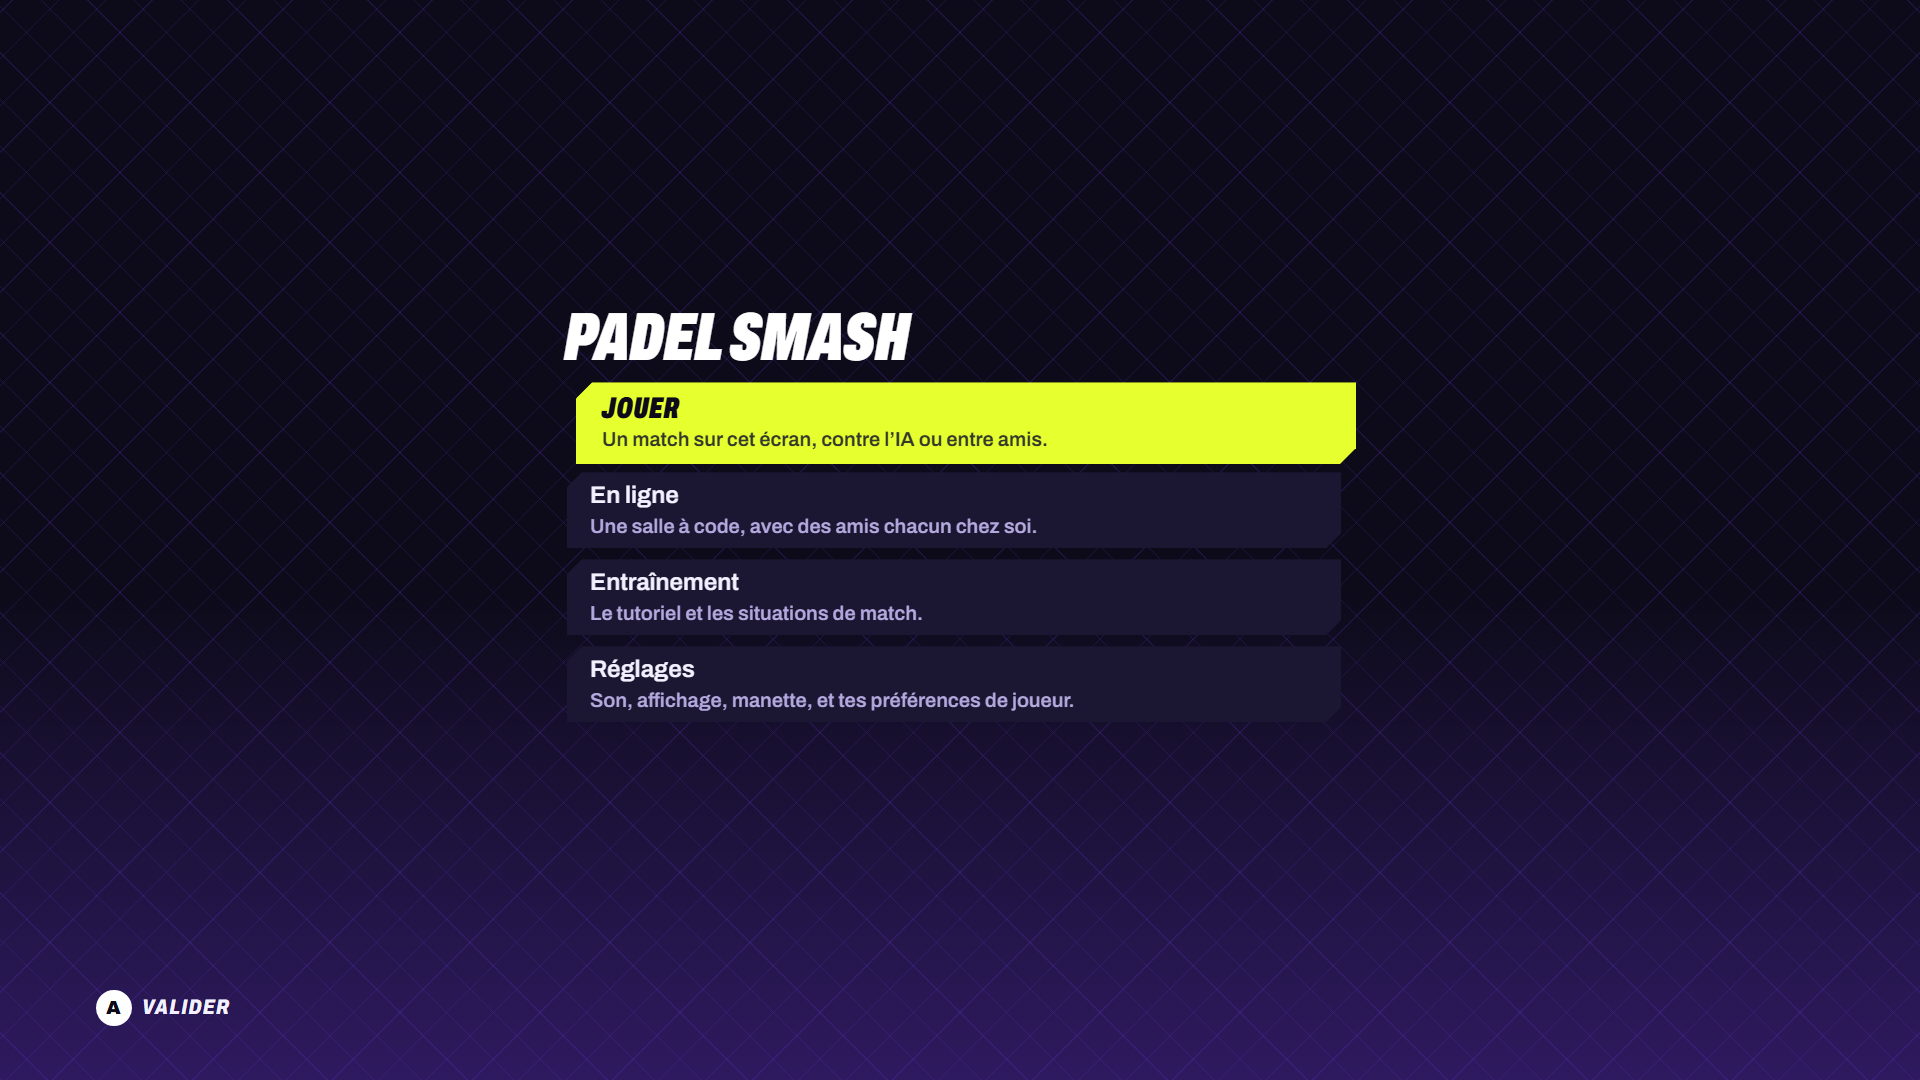
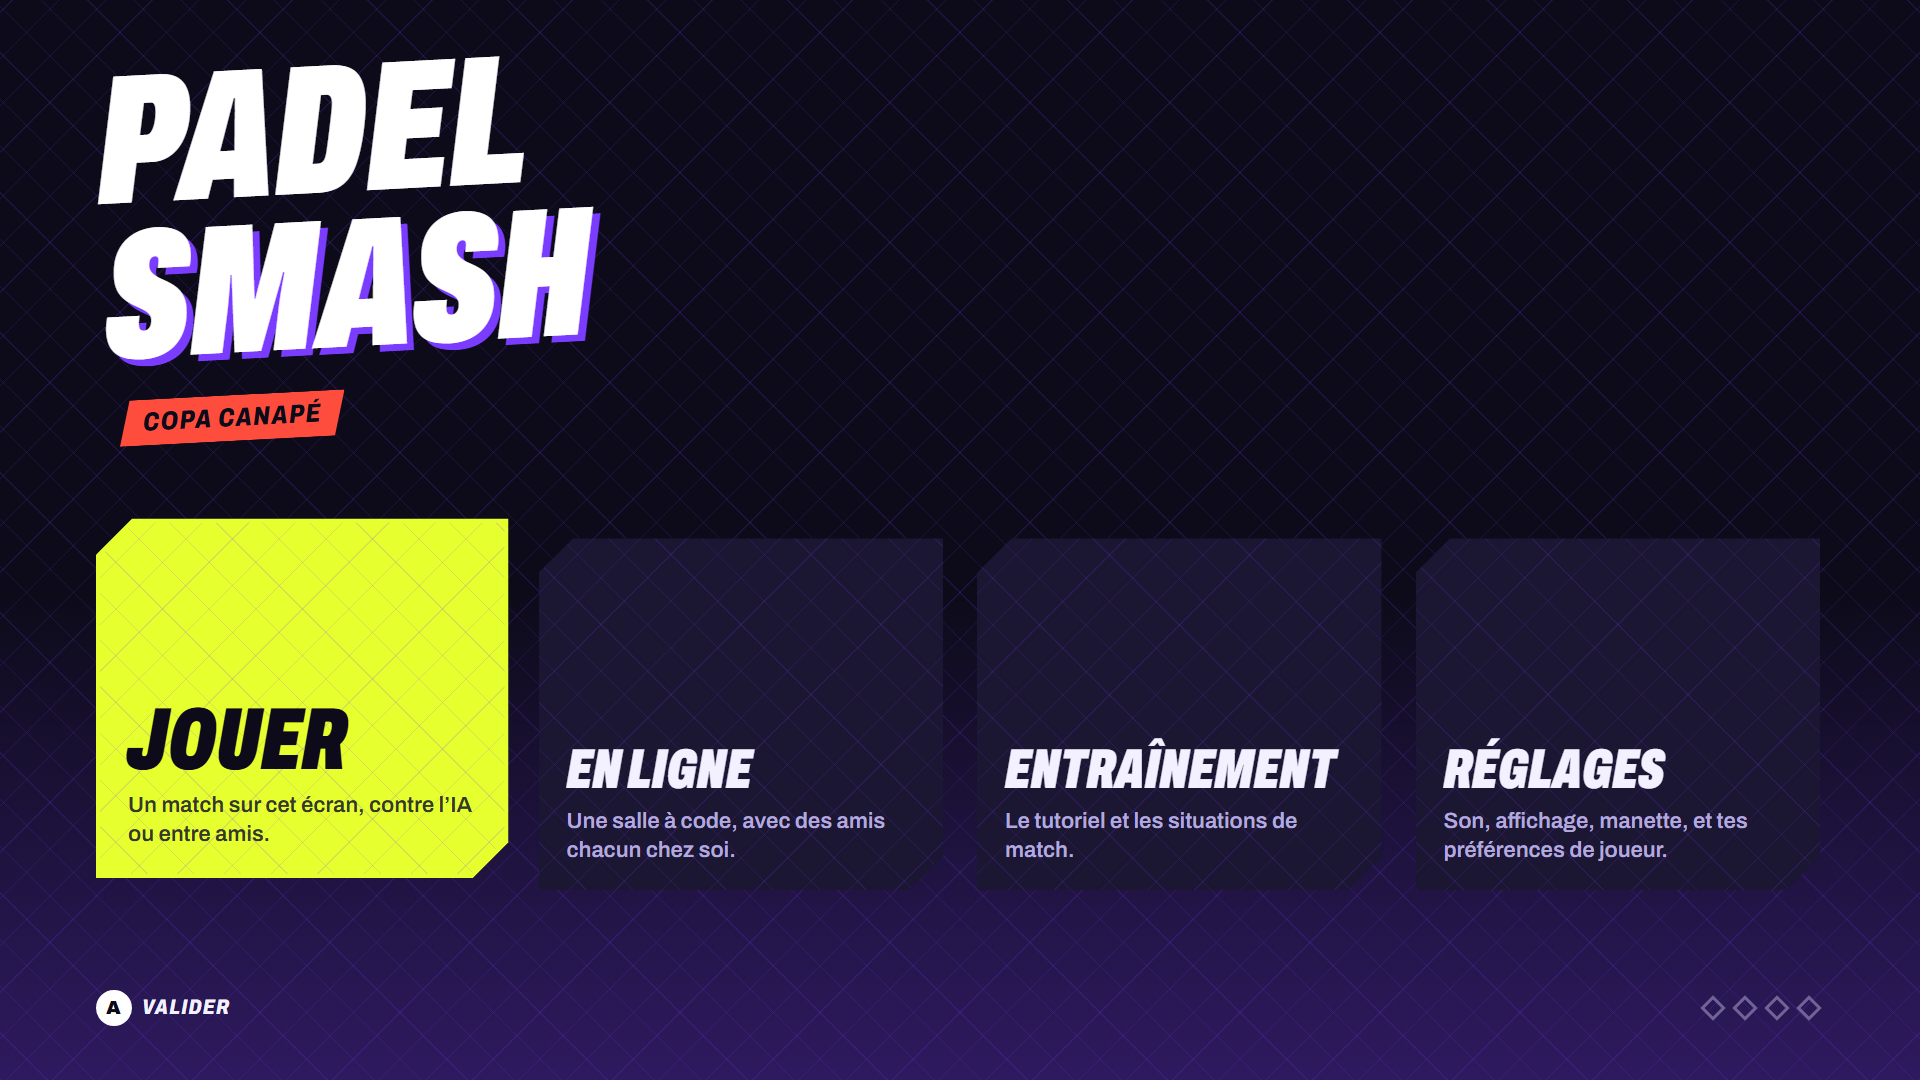
Passe design, étape 4 : accueil en tuiles Grillage
Grand titre « PADEL SMASH » penché en haut à gauche, bandeau « Copa Canapé », quatre tuiles côte à côte au-dessus de
la barre d'aides, repères des manettes branchées en losanges. Le menu commun gagne la disposition `layout: 'tiles'`
(gauche et droite déplacent le focus, haut et bas aussi) ; les autres écrans restent en liste, inchangés. Test du
navigateur de la navigation en tuiles ; plan et contrat mis à jour.

diff --git a/src/ui/menu.css b/src/ui/menu.css
@@ -547,6 +547,125 @@
   color: var(--ink);
 }
 
+/* Repères des manettes branchées, à droite de la barre d'aides (accueil) : un losange plein par manette. */
+.menu-pads {
+  display: none;
+  gap: calc(14 * var(--u));
+  margin-left: auto;
+  padding-right: calc(6 * var(--u));
+}
+.menu[data-screen='accueil'] .menu-pads {
+  display: flex;
+}
+.menu-pad {
+  width: calc(18 * var(--u));
+  height: calc(18 * var(--u));
+  box-sizing: border-box;
+  border: calc(3 * var(--u)) solid var(--ink-line);
+  transform: rotate(45deg);
+}
+.menu-pad.is-on {
+  border-color: var(--ink-soft);
+  background: var(--ink-soft);
+}
+
+/*
+ * Tuiles (`data-layout='tiles'`, l'accueil) : le grand titre penché en haut à gauche, les entrées en quatre grandes
+ * plaques côte à côte au-dessus de la barre d'aides ; le focus monte au lieu de glisser.
+ */
+.menu[data-layout='tiles'] {
+  --menu-bevel: calc(36 * var(--u));
+  --menu-edge-width: calc(4 * var(--u));
+  --menu-focus-shift: calc(16 * var(--u));
+}
+.menu[data-layout='tiles'] .menu-panel {
+  position: absolute;
+  inset: var(--ui-safe-y) var(--ui-safe-x) calc(var(--ui-safe-y) + 84 * var(--u));
+  display: flex;
+  flex-direction: column;
+  align-items: flex-start;
+  width: auto;
+  max-height: none;
+  padding: 0;
+  overflow: visible;
+  mask-image: none;
+  animation: none;
+}
+.menu[data-layout='tiles'] .menu-title {
+  width: min-content;
+  margin: calc(12 * var(--u)) 0 0 calc(12 * var(--u));
+  font-size: calc(184 * var(--u));
+  line-height: 0.84;
+  transform: rotate(-3deg);
+  transform-origin: left bottom;
+  text-shadow: calc(7 * var(--u)) calc(7 * var(--u)) 0 var(--violet);
+}
+.menu[data-layout='tiles'] .menu-title::first-line {
+  text-shadow: none;
+}
+/* « Copa Canapé » : le tournoi du décor, un bandeau rouge en parallélogramme sous le titre. */
+.menu[data-layout='tiles'] .menu-screen-hint {
+  margin: calc(26 * var(--u)) 0 0 calc(24 * var(--u));
+  padding: calc(6 * var(--u)) calc(24 * var(--u));
+  background: var(--red);
+  color: var(--ink);
+  clip-path: polygon(calc(12 * var(--u)) 0, 100% 0, calc(100% - 12 * var(--u)) 100%, 0 100%);
+  font-family: var(--ui-font-brand);
+  font-size: calc(26 * var(--u));
+  font-stretch: 80%;
+  font-style: italic;
+  font-weight: 800;
+  letter-spacing: 0.06em;
+  text-transform: uppercase;
+  transform: rotate(-3deg);
+  transform-origin: left bottom;
+}
+.menu[data-layout='tiles'] .menu-items {
+  display: grid;
+  grid-template-columns: repeat(4, minmax(0, 1fr));
+  gap: calc(26 * var(--u));
+  align-self: stretch;
+  margin-top: auto;
+  padding: 0;
+}
+.menu[data-layout='tiles'] .menu-item {
+  flex-direction: column;
+  flex-wrap: nowrap;
+  align-items: stretch;
+  justify-content: flex-end;
+  gap: 0;
+  min-height: calc(360 * var(--u));
+}
+.menu[data-layout='tiles'] .menu-item::after {
+  background: var(--mesh), var(--plate-bg);
+}
+.menu[data-layout='tiles'] .menu-item.is-focused {
+  transform: translateY(calc(-1 * var(--menu-focus-shift)));
+}
+.menu[data-layout='tiles'] .menu-button {
+  display: flex;
+  align-items: flex-end;
+  padding: 0 calc(32 * var(--u));
+  font-family: var(--ui-font-brand);
+  font-size: calc(56 * var(--u));
+  font-stretch: var(--ui-brand-stretch);
+  font-style: italic;
+  font-weight: 900;
+  line-height: 0.9;
+  letter-spacing: 0;
+  text-transform: uppercase;
+}
+.menu[data-layout='tiles'] .menu-action.is-primary .menu-button {
+  font-size: calc(88 * var(--u));
+}
+.menu[data-layout='tiles'] .menu-action .menu-hint {
+  flex-basis: auto;
+  min-height: 2.6em;
+  margin: calc(12 * var(--u)) calc(32 * var(--u)) calc(30 * var(--u));
+  font-size: calc(22 * var(--u));
+  line-height: 1.3;
+}
+
 /* Bouton de pause, en haut à droite pendant un match (souris). */
 #pause-button {
   --bevel: calc(10 * var(--u));

diff --git a/src/ui/menu.ts b/src/ui/menu.ts
@@ -87,6 +87,11 @@ export interface MenuScreen {
   id: string;
   title: string;
   hint?: string;
+  /**
+   * Disposition des entrées (`data-layout`) : en liste (par défaut), ou en tuiles côte à côte (accueil), où gauche et
+   * droite passent aussi d'une entrée à l'autre.
+   */
+  layout?: 'list' | 'tiles';
   /** Les entrées, relues à chaque rafraîchissement (`Menu.refresh`). */
   items(): MenuItem[];
   /** B, Échap : revenir. Sans `back`, l'écran précédent de la pile ; à la racine, rien. */
@@ -176,6 +181,23 @@ export function createMenu(options: MenuOptions = {}): Menu {
     hint.append(glyph, text);
     hints.append(hint);
   }
+  // Repères des manettes branchées : un losange par manette, plein quand elle est là.
+  const padRow = document.createElement('span');
+  padRow.className = 'menu-pads';
+  const padMarks = Array.from({ length: 4 }, () => {
+    const mark = document.createElement('span');
+    mark.className = 'menu-pad';
+    padRow.append(mark);
+    return mark;
+  });
+  hints.append(padRow);
+  let padCount = -1;
+  const showPads = (count: number): void => {
+    if (count === padCount) return;
+    padCount = count;
+    padMarks.forEach((mark, i) => mark.classList.toggle('is-on', i < count));
+    padRow.dataset.count = String(count);
+  };
   root.append(panel, hints);
   document.body.append(root);
 
@@ -349,6 +371,7 @@ export function createMenu(options: MenuOptions = {}): Menu {
     panel.replaceChildren(...children);
     panel.dataset.screen = screen.id;
     root.dataset.screen = screen.id;
+    root.dataset.layout = screen.layout ?? 'list';
     root.dataset.back = editing || screen.back || stack.length > 1 || options.onRootBack ? 'oui' : 'non';
     if (focusedId === null || !elements.has(focusedId)) focusedId = items.find(focusable)?.id ?? null;
     if (editing && !elements.has(editing.id)) editing = null;
@@ -393,6 +416,7 @@ export function createMenu(options: MenuOptions = {}): Menu {
     if (item?.kind === 'text' && editing?.id === item.id) return editText(item, dir);
     if (dir === 'up') move(-1);
     else if (dir === 'down') move(1);
+    else if (current()?.layout === 'tiles') move(dir === 'left' ? -1 : 1);
     else if (item?.kind === 'choice') cycle(item, dir === 'left' ? -1 : 1);
     else if (item?.kind === 'toggle') {
       item.set(dir === 'right');
@@ -465,6 +489,7 @@ export function createMenu(options: MenuOptions = {}): Menu {
   const poll = (now: number, loop: number): void => {
     if (root.hidden || loop !== pollLoop) return;
     const pads = connectedGamepads();
+    showPads(pads.length);
     let dir: Direction | null = null;
     for (const pad of pads) {
       const state = readPad(pad);
@@ -497,6 +522,7 @@ export function createMenu(options: MenuOptions = {}): Menu {
     const wasHidden = root.hidden;
     root.hidden = false;
     render();
+    showPads(connectedGamepads().length);
     if (wasHidden) {
       snapshotPads();
       const loop = ++pollLoop;

diff --git a/tests/e2e/menu.spec.ts b/tests/e2e/menu.spec.ts
@@ -130,3 +130,34 @@ test('au clavier et à la souris', async ({ page }) => {
   await page.locator('[data-item="compter"] .menu-hint').click();
   await expect(page.locator('[data-item="compter"]')).toContainText('Compter (3)');
 });
+
+test('accueil en tuiles : gauche et droite passent d’une tuile à l’autre, haut et bas aussi ; les manettes se voient', async ({ page }) => {
+  await page.goto('/');
+  const home = page.locator('#accueil');
+  await expect(home).toHaveAttribute('data-layout', 'tiles');
+  await expect(focused(page)).toHaveAttribute('data-item', 'jouer');
+  await expect(home.locator('.menu-pads')).toHaveAttribute('data-count', '0');
+
+  // Clavier : droite et gauche, en boucle ; bas suit le même ordre.
+  await page.keyboard.press('ArrowRight');
+  await expect(focused(page)).toHaveAttribute('data-item', 'en-ligne');
+  await page.keyboard.press('ArrowLeft');
+  await page.keyboard.press('ArrowLeft');
+  await expect(focused(page)).toHaveAttribute('data-item', 'reglages');
+  await page.keyboard.press('ArrowDown');
+  await expect(focused(page)).toHaveAttribute('data-item', 'jouer');
+
+  // Manette : la croix à droite, puis A ouvre l'écran, en liste, où droite ne déplace plus le focus.
+  await plugPad(page);
+  await expect(home.locator('.menu-pads')).toHaveAttribute('data-count', '1');
+  await expect(home.locator('.menu-pad.is-on')).toHaveCount(1);
+  await tap(page, 15);
+  await tap(page, 15);
+  await expect(focused(page)).toHaveAttribute('data-item', 'entrainement');
+  await tap(page, 0);
+  await expect(home).toHaveAttribute('data-screen', 'entrainement');
+  await expect(home).toHaveAttribute('data-layout', 'list');
+  const first = await focused(page).getAttribute('data-item');
+  await tap(page, 15);
+  await expect(focused(page)).toHaveAttribute('data-item', first!);
+});

diff --git a/src/modes/home.ts b/src/modes/home.ts
@@ -55,6 +55,8 @@ export function startHome(canvas: HTMLCanvasElement): void {
   const home: MenuScreen = {
     id: 'accueil',
     title: 'Padel Smash',
+    hint: 'Copa Canapé',
+    layout: 'tiles',
     items: () => [
       { kind: 'action', id: 'jouer', label: 'Jouer', hint: 'Un match sur cet écran, contre l’IA ou entre amis.', primary: true, run: () => menu.push(play) },
       {

diff --git a/research/DESIGN_PLAN.md b/research/DESIGN_PLAN.md
@@ -151,6 +151,29 @@ canapé (§5, étape 1). Ses avis sur le HUD se jugent à la manette, pas sur pa
    pour l'instant) ; bleu et rouge ne se distinguent en clarté que modérément (le nom de l'équipe est toujours écrit) ;
    le jugement depuis le canapé, à la manette.
 4. **Accueil** : titre en typo seule, fond fixe avec le motif de maille, disposition en tuiles.
+   *Fait.* Xavier a choisi les **tuiles** de la maquette (plutôt que la liste verticale mise en scène). Décisions :
+   - Le menu commun gagne une disposition par écran, `layout: 'tiles'` (`data-layout` sur la racine, `list` par
+     défaut) : sur un écran en tuiles, gauche et droite passent d'une entrée à l'autre, en boucle ; haut et bas
+     continuent de marcher (même ordre). Les autres écrans restent en liste, sans changement de navigation :
+     captures identiques, aux variations de la scène 3D et du code de salle près (et du survol laissé par la souris
+     des captures, qui tombe sur une autre entrée après le clic sur une tuile).
+   - Disposition : grand titre « PADEL SMASH » sur deux lignes (184 `--ui-px`), penché de 3°, en haut à gauche dans
+     la zone de sécurité ; « SMASH » porte une ombre violette décalée (`::first-line` l'enlève de « PADEL »), le titre
+     reste blanc : le jaune balle reste réservé au focus et à l'action principale (sur la maquette, « SMASH » était
+     jaune). Sous le titre, « Copa Canapé » en bandeau rouge, texte encre (le `hint` de l'écran). Quatre tuiles égales
+     en bas, au-dessus de la barre d'aides, nom en Archivo étroite italique 900 et aide de l'entrée en dessous (textes
+     inchangés). Focus : la tuile passe au jaune et **monte** de 16 px avec le même rebond ; « Jouer » garde liseré et
+     nom jaunes au repos (action principale). Maille aussi dans les plaques des tuiles.
+   - Repères des manettes branchées : quatre losanges à droite de la barre d'aides, pleins pour chaque manette
+     branchée (`.menu-pads`, `data-count`), mis à jour par la boucle de lecture des manettes ; affichés sur l'accueil
+     seulement pour l'instant.
+   - Pas d'image dans la tuile « Jouer » ni de bande de couleur en haut des autres (maquette) : pas de visuel embarqué
+     prêt, et la bande colorée ressemble trop à la bordure latérale écartée à l'étape 3.
+   - Test du navigateur ajouté (`menu.spec.ts`) : gauche/droite et bas sur l'accueil, au clavier et à la manette,
+     repères des manettes, et droite qui ne déplace plus le focus sur un écran en liste.
+   Restent : une image ou une illustration pour la tuile « Jouer » (à décider avec Xavier) ; les repères des manettes
+   sur les autres écrans (Jouer surtout) et leur couleur d'équipe ; l'accent circonflexe d'« ENTRAÎNEMENT » touche le
+   haut de la ligne dans les titres d'écran en liste (interligne 0,9, étape 6) ; le jugement depuis le canapé.
 5. **Jouer** : l'écran le plus dense (places des 4 joueurs, IA, règles). Maquette d'abord (`shape`).
 6. **Pause, Réglages, Entraînement.**
 7. **En ligne** : salon, code de salle, places, erreurs (serveur introuvable, salle pleine, coupure).

diff --git a/.impeccable/surfaces/src-ui-menu-css.md b/.impeccable/surfaces/src-ui-menu-css.md
@@ -65,6 +65,9 @@ rebond, comme une balle qui court le long du grillage.
 
 ## Unresolved
 
-- Accueil : liste verticale (navigation actuelle) ou tuiles horizontales comme la maquette (navigation gauche/droite
-  à ajouter) ; à trancher à l'étape 4.
+- ~~Accueil : liste ou tuiles~~ : tranché le 21/10/2026, **tuiles** (`layout: 'tiles'`, gauche/droite et haut/bas
+  déplacent le focus ; titre au-dessus des tuiles, à gauche, et non au-dessus d'une liste). Le titre reste blanc :
+  jaune balle réservé au focus et à l'action principale.
+- Visuel de la tuile « Jouer » (image ou illustration, comme la maquette) : pas encore décidé.
+- Repères des manettes branchées hors de l'accueil (écran Jouer) et leur couleur d'équipe.
 - Taille minimale du texte courant, à valider depuis le canapé (cible de départ ~24 px à 1080p).
